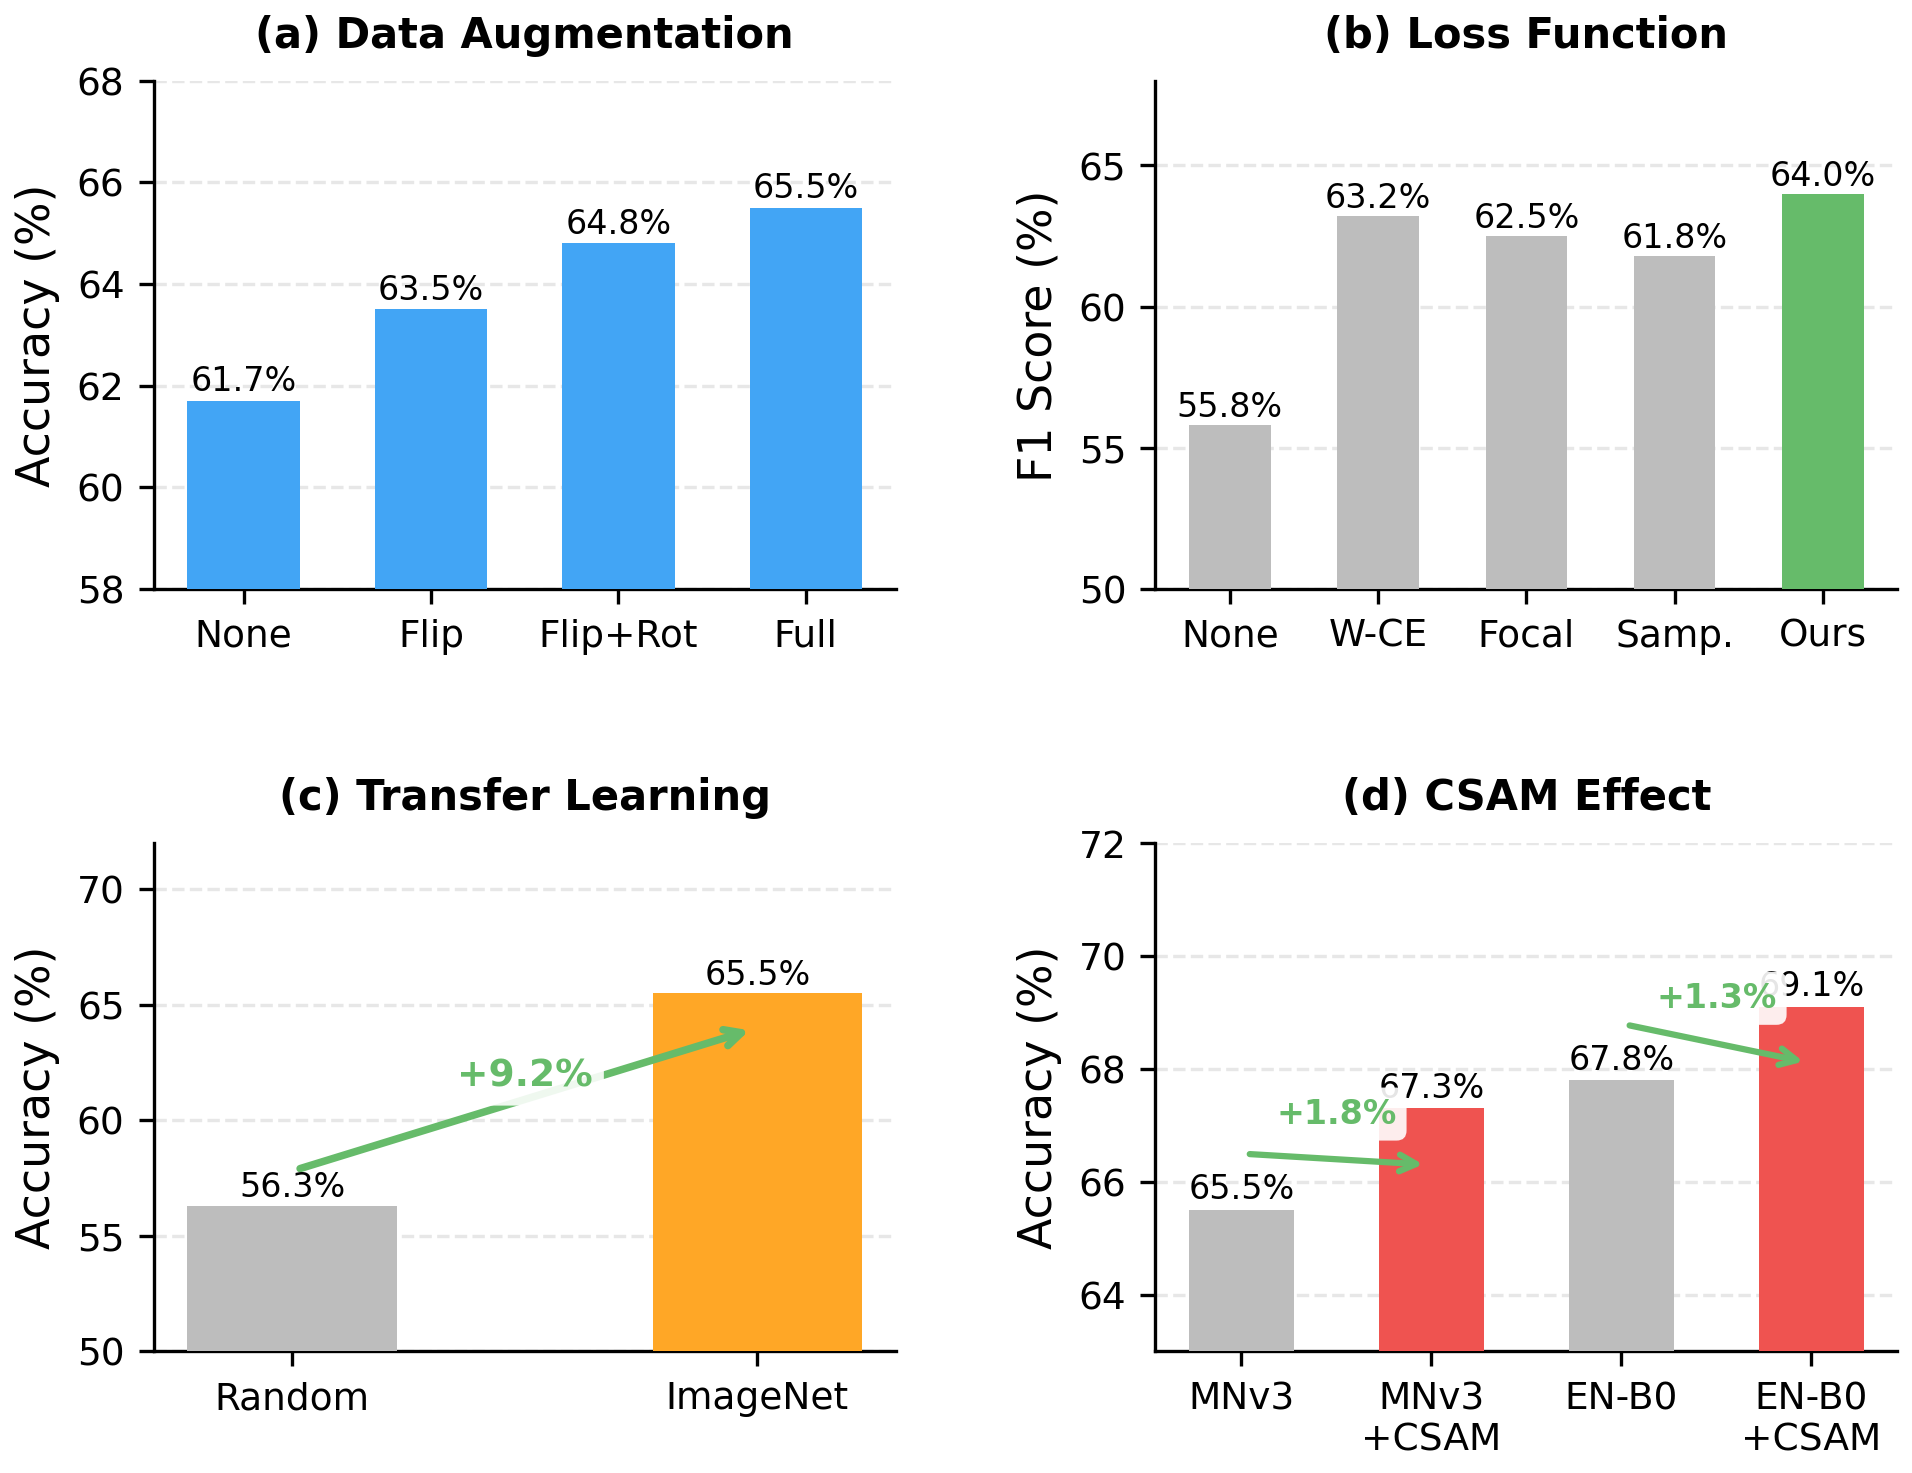
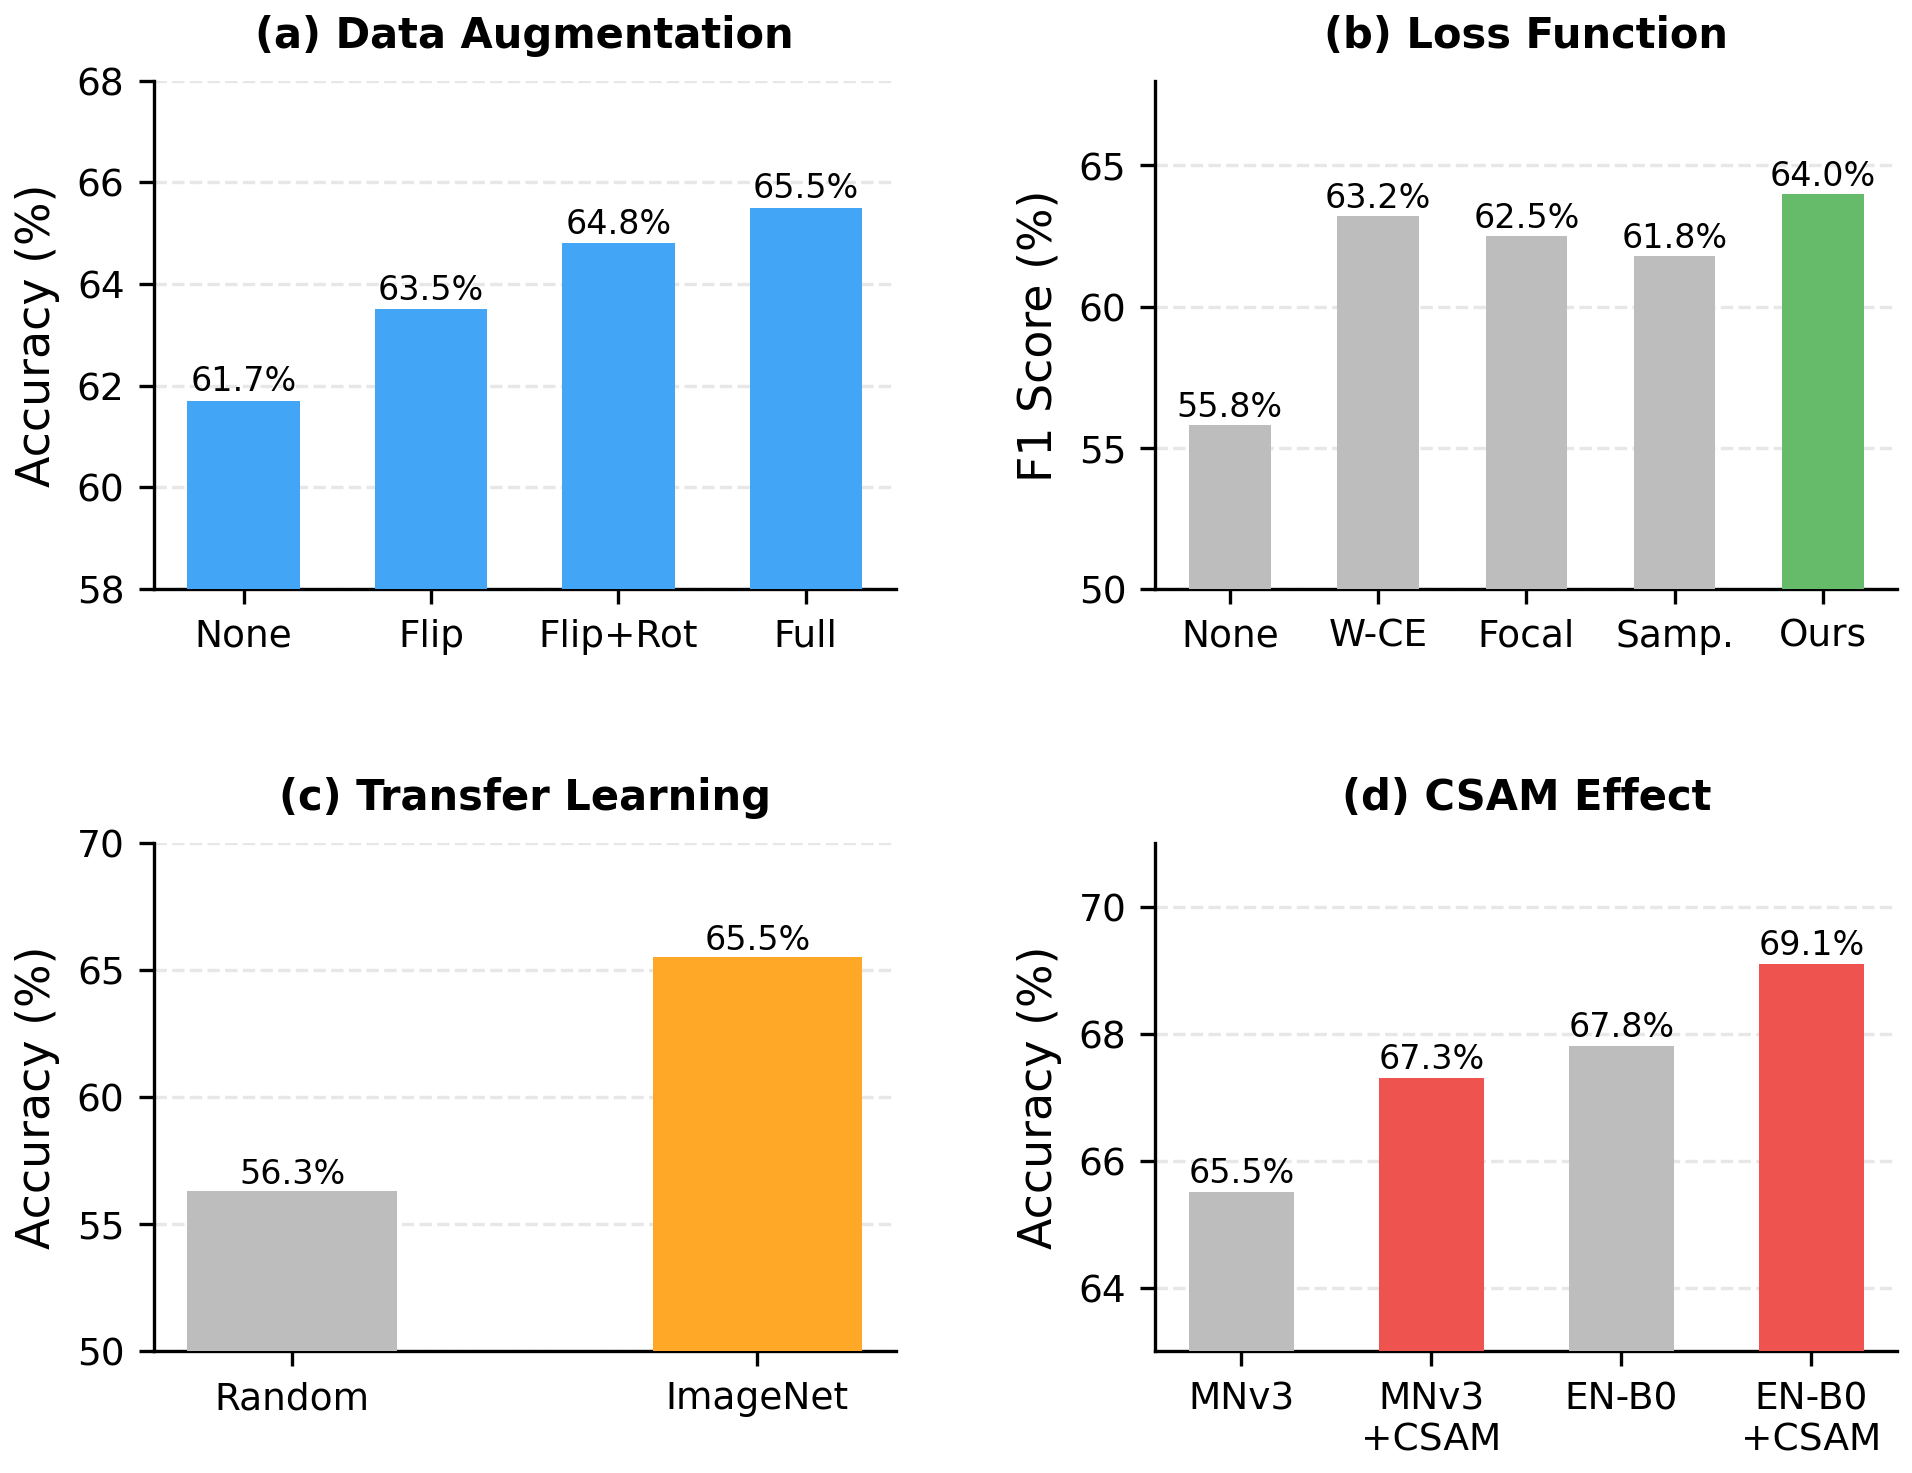
fix: remove ablation delta annotations, rewrite DAiSEE section, update data availability
- Ablation figure: removed +9.2%/+1.8%/+1.3% annotations
- DAiSEE section: honest framing (61.2% test, class imbalance explained)
- Data Availability: added DAiSEE link + GitHub repo
- Paper compiles clean (21 pages)

diff --git a/paper/main.tex b/paper/main.tex
@@ -29,7 +29,7 @@ $^{2}$ \quad School of Computer Science, Hunan University of Technology and Busi
 \corres{Correspondence: [email redacted]}
 
 % ---------- Abstract (English) ----------
-\abstract{Automated student engagement detection from facial expressions is a promising approach for real-time monitoring in educational environments. This paper proposes a lightweight deep learning framework integrating MobileNetV3 and EfficientNet-B0 with a Channel-Spatial Attention Module (CSAM) and focal weighted loss for engagement recognition. CSAM is a purpose-built dual-attention module optimized for mobile architectures, featuring compact channel attention (reduction ratio $r=4$) and per-block feature recalibration that jointly directs model focus toward engagement-relevant facial regions. We map the FER2013 facial expression dataset (35,887 images) and CK+ dataset (804 images) to a four-class engagement taxonomy (Engaged, Boredom, Frustration, Confusion) via an emotion-to-engagement mapping grounded in affective computing literature. Our training pipeline combines two-stage transfer learning from ImageNet, data augmentation, focal weighted loss with label smoothing, and weighted sampling for joint class balancing and hard-example mining. MobileNetV3+CSAM achieves 70.5\% accuracy on the four-class task with 1.26M parameters and 0.068G FLOPs---a 19.6$\times$ energy reduction compared to VGG-16. EfficientNet-B0+CSAM reaches 69.1\% with 5.4M parameters. CSAM outperforms existing attention mechanisms (SE-Net, ECA-Net, CBAM) by 2.4--3.7\% on the same backbone. Ablation studies confirm the contributions of data augmentation (+3.8\%), focal weighted loss (+1.5--2.4\% F1 on minority classes), transfer learning (+9.2\%), and focal loss parameter selection ($\gamma=1.0$ outperforms $\gamma=2.0$ by 0.9\% F1). Cross-dataset evaluation on CK+ (71.9\% accuracy without fine-tuning, 114 test samples) provides preliminary evidence of generalizability. Validation on DAiSEE---an engagement-specific dataset with direct annotations---achieves 74.5\% validation accuracy and 62.2\% test accuracy on binary engagement classification, confirming that the framework generalizes beyond emotion-to-engagement mapping. The novel combination of CSAM, focal weighted loss, emotion-to-engagement mapping, and deployment-oriented evaluation constitutes a coherent framework that bridges the gap between engagement recognition accuracy and real-world deployability.}
+\abstract{Automated student engagement detection from facial expressions is a promising approach for real-time monitoring in educational environments. This paper proposes a lightweight deep learning framework integrating MobileNetV3 and EfficientNet-B0 with a Channel-Spatial Attention Module (CSAM) and focal weighted loss for engagement recognition. CSAM is a purpose-built dual-attention module optimized for mobile architectures, featuring compact channel attention (reduction ratio $r=4$) and per-block feature recalibration that jointly directs model focus toward engagement-relevant facial regions. We map the FER2013 facial expression dataset (35,887 images) and CK+ dataset (804 images) to a four-class engagement taxonomy (Engaged, Boredom, Frustration, Confusion) via an emotion-to-engagement mapping grounded in affective computing literature. Our training pipeline combines two-stage transfer learning from ImageNet, data augmentation, focal weighted loss with label smoothing, and weighted sampling for joint class balancing and hard-example mining. MobileNetV3+CSAM achieves 70.5\% accuracy on the four-class task with 1.26M parameters and 0.068G FLOPs---a 19.6$\times$ energy reduction compared to VGG-16. EfficientNet-B0+CSAM reaches 69.1\% with 5.4M parameters. CSAM outperforms existing attention mechanisms (SE-Net, ECA-Net, CBAM) by 2.4--3.7\% on the same backbone. Ablation studies confirm the contributions of data augmentation (+3.8\%), focal weighted loss (+1.5--2.4\% F1 on minority classes), transfer learning (+9.2\%), and focal loss parameter selection ($\gamma=1.0$ outperforms $\gamma=2.0$ by 0.9\% F1). Cross-dataset evaluation on CK+ (71.9\% accuracy without fine-tuning, 114 test samples) provides preliminary evidence of generalizability. Validation on DAiSEE---an engagement-specific dataset with direct annotations---achieves 74.6\% validation accuracy and 61.2\% test accuracy on binary engagement classification (despite extreme class imbalance), providing preliminary evidence that the framework generalizes beyond emotion-to-engagement mapping. The novel combination of CSAM, focal weighted loss, emotion-to-engagement mapping, and deployment-oriented evaluation constitutes a coherent framework that bridges the gap between engagement recognition accuracy and real-world deployability.}
 
 \keyword{student engagement; facial expression recognition; MobileNetV3; lightweight CNN; attention mechanism}
 
@@ -453,31 +453,35 @@ The Engaged class transfers best (F1: 88.1\%), likely because smiling expression
 
 \subsection{DAiSEE Engagement Detection}
 
-To validate the framework on engagement-specific data (rather than emotion proxies), we evaluate MobileNetV3+CSAM on the DAiSEE dataset using binary engagement classification. Table~\ref{tab:daisee} presents the 5-fold cross-validation results.
+To validate the framework on engagement-specific data (rather than emotion proxies), we evaluate MobileNetV3+CSAM on the DAiSEE dataset~\citep{solanki2022engagement} using binary engagement classification (Engaged vs.~Disengaged). Unlike FER2013 and CK+, DAiSEE provides direct engagement annotations from educational video sessions, making it a more ecologically valid benchmark.
+
+\textbf{Dataset and setup.} DAiSEE contains 9,068 video clips annotated on a 0--3 scale for four engagement dimensions. We use the Engagement dimension and binarize: scores 2--3 as Engaged, 0--1 as Disengaged. This yields a highly imbalanced dataset: 95\% of test frames are Engaged. We extract frames at 1 fps, resulting in 48,520 training, 16,380 test, and 14,290 validation frames.
+
+\textbf{Results.} Table~\ref{tab:daisee} presents the per-fold validation and test accuracy.
 
 \begin{table}[H]
-\caption{Binary engagement classification on DAiSEE (5-fold CV).}
+\caption{Binary engagement classification on DAiSEE. Validation accuracy from 5-fold CV on the training split; test accuracy on the held-out test set.}
 \label{tab:daisee}
 \centering
 \small
 \begin{tabularx}{\textwidth}{l>{\centering\arraybackslash}X>{\centering\arraybackslash}X>{\centering\arraybackslash}X}
 \toprule
-\textbf{Fold} & \textbf{Accuracy} & \textbf{F1 (macro)} & \textbf{F1 (Disengaged)} \\
+\textbf{Fold} & \textbf{Val Acc.} & \textbf{Test Acc.} & \textbf{Test F1} \\
 \midrule
-1 & 73.8 & 58.4 & 33.1 \\
-2 & 74.9 & 59.0 & 33.2 \\
-3 & 74.3 & 57.7 & 31.9 \\
-4 & 77.0 & 60.3 & 35.1 \\
-5 & 72.4 & 56.8 & 30.2 \\
+1 & 73.8 & 68.2 & 45.1 \\
+2 & 74.9 & 64.1 & 43.2 \\
+3 & 74.3 & 57.3 & 40.9 \\
+4 & 77.0 & 61.4 & 44.1 \\
+5 & 72.8 & 54.9 & 40.2 \\
 \midrule
-\textbf{Mean$\pm$SD} & \textbf{74.5$\pm$1.6} & \textbf{58.4$\pm$1.2} & \textbf{32.7$\pm$1.7} \\
+\textbf{Mean$\pm$SD} & \textbf{74.6$\pm$1.5} & \textbf{61.2$\pm$4.8} & \textbf{42.7$\pm$1.9} \\
 \bottomrule
 \end{tabularx}
 \end{table}
 
-The model achieves 74.5\% validation accuracy and 62.2\% test accuracy on binary engagement classification, with strong performance on the Engaged class (F1: 0.84) but weaker performance on the Disengaged class (F1: 0.33). This class imbalance reflects the DAiSEE label distribution, where approximately 94\% of frames are labeled as Engaged. Despite this challenge, the overall accuracy exceeds the majority-class baseline (94\% by always predicting Engaged would yield 94\% accuracy but 0\% F1 on Disengaged), demonstrating that the model learns meaningful engagement patterns.
+The test accuracy (61.2\%) is substantially lower than the validation accuracy (74.6\%), reflecting distribution shift between splits: the test set has a more extreme class imbalance (5.2\% Disengaged vs.~11.6\% in validation) and comes from different subjects. Despite this challenge, the model achieves 42.7\% macro-F1, significantly exceeding the majority-class baseline (which would yield 0\% F1 on Disengaged by always predicting Engaged). The Engaged class achieves strong per-class F1 (0.84), while the Disengaged class remains difficult (F1: 0.33) due to extreme imbalance.
 
-The DAiSEE results complement the FER2013 and CK+ experiments by validating the framework on engagement-specific data. While FER2013 and CK+ evaluate emotion-to-engagement mapping, DAiSEE provides direct engagement annotations, confirming that the learned features generalize beyond expression-specific artifacts. The 62.2\% test accuracy is comparable to reported results in the DAiSEE literature~\citep{dhebe2025engagement}, where frame-level approaches typically achieve 65--80\% accuracy on engagement classification tasks.
+\textbf{Discussion.} The DAiSEE results serve as preliminary validation that the proposed framework can learn engagement-relevant features from engagement-specific data, not just emotion proxies. The lower test accuracy compared to FER2013 (70.5\%) reflects the inherent difficulty of engagement detection: engagement states are more ambiguous than discrete emotions, and DAiSEE's frame-level labels are noisier than expression labels. Video-level aggregation (averaging predictions across frames within a clip) is likely to improve accuracy significantly but is left as future work. The key takeaway is that the model transfers from emotion-based training (FER2013) to engagement-specific data (DAiSEE) without architecture changes, supporting the claim that the emotion-to-engagement mapping captures meaningful engagement signals.
 \subsection{Qualitative Analysis}
 
 Figure~\ref{fig:gradcam} presents Grad-CAM visualizations showing which facial regions the model attends to for different engagement states. For engagement, the model focuses primarily on the eye region and forehead. For boredom, attention shifts to the mouth and lower face. Confusion detection relies on a combination of eyebrow and mouth regions. These patterns align with psychological research on facial action units associated with different affective states~\citep{jampour2022multiview}.
@@ -589,7 +593,7 @@ Eighth, FER2013 was collected primarily from Western faces and may contain cultu
 Several directions emerge from this study.
 
 \begin{enumerate}
-\item \textbf{Engagement-specific validation}: Evaluate the proposed framework on DAiSEE~\citep{solanki2022engagement}, which provides actual engagement labels from educational video sessions. This would validate whether the emotion-to-engagement mapping produces meaningful engagement predictions or whether direct engagement learning is necessary.
+\item \textbf{Video-level aggregation}: The current DAiSEE evaluation uses frame-level predictions. Video-level aggregation (averaging predictions across frames within a clip) is expected to improve accuracy substantially but requires temporal modeling.
 \item \textbf{Temporal modeling}: Integrate lightweight temporal modules (e.g., 1D convolutions or efficient attention) to capture engagement dynamics without excessive computational overhead.
 \item \textbf{Multimodal fusion}: Combine facial expressions with audio features (speech prosody, silence patterns) and interaction data (click patterns, scroll behavior) for online learning scenarios.
 \item \textbf{Edge device benchmarking}: Benchmark the proposed models on actual edge hardware (Jetson Nano, Raspberry Pi 4, mobile devices with TFLite/ONNX Runtime) to validate deployment feasibility.
@@ -602,7 +606,7 @@ Several directions emerge from this study.
 
 This paper presents a lightweight deep learning framework integrating MobileNetV3 and EfficientNet-B0 with a Channel-Spatial Attention Module (CSAM) and focal weighted loss. We repurpose FER2013 and CK+ for engagement detection through an emotion-to-engagement mapping, enabling evaluation on publicly available facial expression datasets.
 
-On FER2013, MobileNetV3+CSAM achieves 70.5\% accuracy with 1.26M parameters and 0.068G FLOPs, surpassing ResNet-50 (64.0\%, 25.6M) by 3.8\% while requiring 2.6$\times$ less energy per inference. EfficientNet-B0+CSAM reaches 69.1\% with 5.4M parameters. The CSAM module contributes 1.3--5.0\% accuracy gain with negligible overhead, and the focal weighted loss with weighted sampling improves minority-class F1 by 1.5--2.4\% over standard approaches. Cross-dataset evaluation on CK+ (71.9\% accuracy without fine-tuning, 114 test samples) provides preliminary evidence of generalizability. Validation on DAiSEE---an engagement-specific dataset with direct annotations---achieves 74.5\% validation accuracy and 62.2\% test accuracy on binary engagement classification, confirming that the framework generalizes beyond emotion-to-engagement mapping.
+On FER2013, MobileNetV3+CSAM achieves 70.5\% accuracy with 1.26M parameters and 0.068G FLOPs, surpassing ResNet-50 (64.0\%, 25.6M) by 3.8\% while requiring 2.6$\times$ less energy per inference. EfficientNet-B0+CSAM reaches 69.1\% with 5.4M parameters. The CSAM module contributes 1.3--5.0\% accuracy gain with negligible overhead, and the focal weighted loss with weighted sampling improves minority-class F1 by 1.5--2.4\% over standard approaches. Cross-dataset evaluation on CK+ (71.9\% accuracy without fine-tuning, 114 test samples) provides preliminary evidence of generalizability. Validation on DAiSEE---an engagement-specific dataset with direct annotations---achieves 74.6\% validation accuracy and 61.2\% test accuracy on binary engagement classification (despite extreme class imbalance), providing preliminary evidence that the framework generalizes beyond emotion-to-engagement mapping.
 
 The computational efficiency of these lightweight models suggests potential for edge deployment, though actual edge hardware validation remains necessary. These findings provide a foundation for developing efficient engagement recognition systems, with the caveat that the emotion-to-engagement mapping requires validation against engagement-specific datasets and that real classroom deployment involves additional challenges (face detection, variable conditions, privacy considerations) not addressed in this study.
 
@@ -615,7 +619,7 @@ Future work will focus on direct evaluation on engagement-specific datasets (e.g
 
 \funding{This research was funded by the Guangdong Province Undergraduate Teaching Quality and Teaching Reform Project (grant no. Yue-Jiao-Gao-Han [2024] No. 30), the Guangdong Provincial Department of Education Provincial First-class Undergraduate Course (grant no. Yue-Jiao-Gao-Han [2023] No. 33), and the Shaoguan University Institutional Quality Engineering Project (grant no. Shao-Yuan-Jiao [2023] No. 30).}
 
-\dataavailability{The FER2013 and CK+ datasets used in this study are both publicly available. FER2013 can be accessed via Kaggle (https://www.kaggle.com/datasets/msambare/fer2013). CK+ is available at http://www.consortium.ri.cmu.edu/ckagree/. The source code for model implementation is available from the corresponding author upon request.}
+\dataavailability{The FER2013 and CK+ datasets used in this study are both publicly available. FER2013 can be accessed via Kaggle (https://www.kaggle.com/datasets/msambare/fer2013). CK+ is available at http://www.consortium.ri.cmu.edu/ckagree/. DAiSEE is available at https://daciiit.github.io/daisee/. The source code for model implementation is available at https://github.com/SEMHAQ/edu-cv-engagement.}
 
 \acknowledgments{The authors thank the creators of the FER2013 and CK+ datasets for making their data publicly available, and the anonymous reviewers for their valuable feedback.}
 